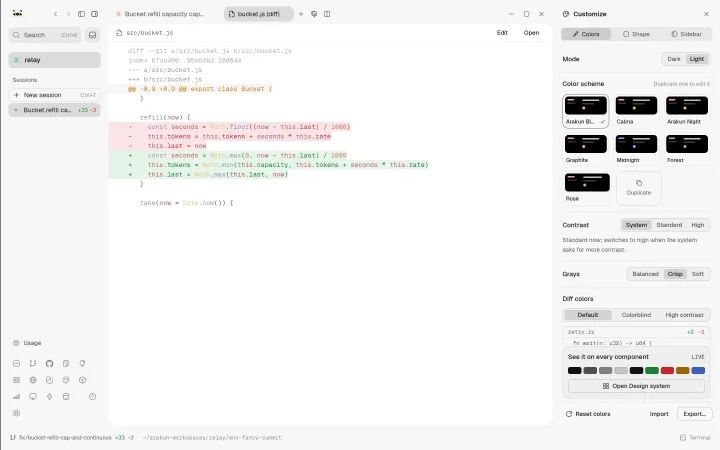
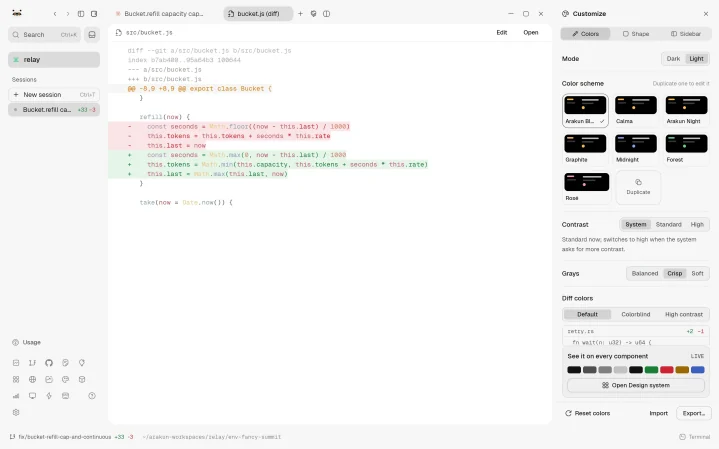
fix(ui): round app screenshots and crop their black left edge
The v0.18.1 captures have two black pixel columns on the left, which show
as a dark line on the light page. Crop 2 pixels off each side and rebuild
the 720 and 1440 sizes from the cropped capture.

The shot frame now clips to a radius with a border, and its shadow is a
box-shadow: a drop-shadow filter under the tilt left a dark seam at the edges.

diff --git a/src/components/ui.tsx b/src/components/ui.tsx
@@ -219,9 +219,12 @@ export function SessionRow({
   )
 }
 
-/** Each capture also comes 720 and 1440 pixels wide (cwebp -resize), so phones get a small one. */
+/**
+ * Each capture also comes about 720 and 1440 pixels wide (cwebp -resize), so phones get a small one.
+ * The captures are cropped 2 pixels on each side (cwebp -crop 2 1 2876 1798): the capture tool leaves a black edge.
+ */
 const srcSet = (name: string) =>
-  `/img/${name}-720.webp 720w, /img/${name}-1440.webp 1440w, /img/${name}.webp 2880w`
+  `/img/${name}-720.webp 719w, /img/${name}-1440.webp 1438w, /img/${name}.webp 2876w`
 
 // As wide as .wrap's content at most: var(--page) less two gutters.
 const SHOT_SIZES = '(min-width: 1280px) 1152px, 100vw'
@@ -295,23 +298,23 @@ export function AppShot({
         alt={onDark.alt}
         className="only-dark"
         fetchPriority={fetchPriority}
-        height={1800}
+        height={1798}
         loading={loading}
         sizes={sizes}
         src={onDark.src}
         srcSet={onDark.srcSet}
-        width={2880}
+        width={2876}
       />
       <img
         alt={onLight.alt}
         className="only-light"
         fetchPriority={fetchPriority}
-        height={1800}
+        height={1798}
         loading={loading}
         sizes={sizes}
         src={onLight.src}
         srcSet={onLight.srcSet}
-        width={2880}
+        width={2876}
       />
     </div>
   )

diff --git a/src/styles.css b/src/styles.css
@@ -729,17 +729,25 @@ svg {
   gap: var(--spacing-2);
 }
 
-/* AppShot: a real capture that tilts toward the pointer. */
+/* AppShot: a real capture that tilts toward the pointer. The frame clips it to a radius.
+   The shadow is a box-shadow on the frame, not a filter on the image: a drop-shadow
+   filter under a 3D transform leaves a dark seam along the edges. */
 .shot {
   aspect-ratio: 16 / 10;
+  overflow: hidden;
+  border: 1px solid var(--color-line-strong);
+  border-radius: var(--radius-lg);
+  box-shadow: 0 18px 40px -12px rgba(0, 0, 0, 0.4);
   transform: perspective(1600px) rotateX(var(--rx, 0deg)) rotateY(var(--ry, 0deg));
+  backface-visibility: hidden;
   transition: transform 0.25s ease-out;
 }
+/* Not display: block, which would beat .only-dark and .only-light. */
 .shot img {
   width: 100%;
   height: 100%;
-  object-fit: contain;
-  filter: drop-shadow(0 18px 30px rgba(0, 0, 0, 0.35));
+  vertical-align: top;
+  object-fit: cover;
 }
 
 /* FeatureCard */
